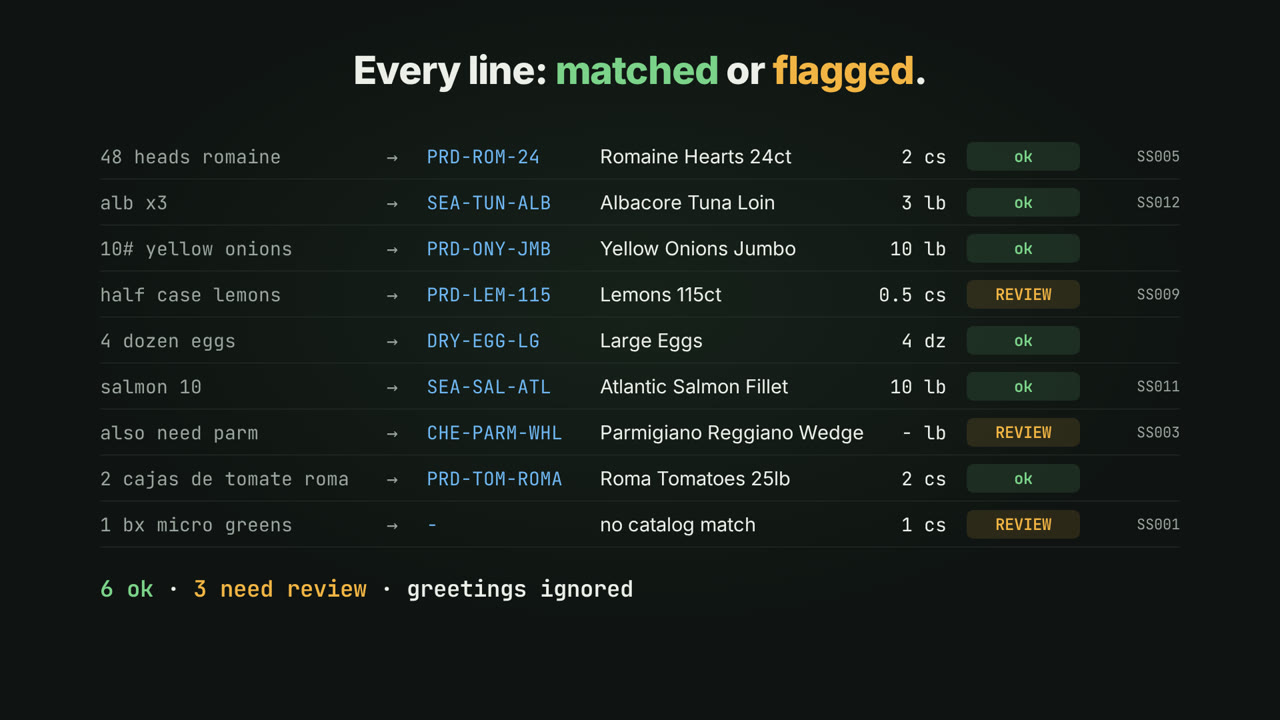
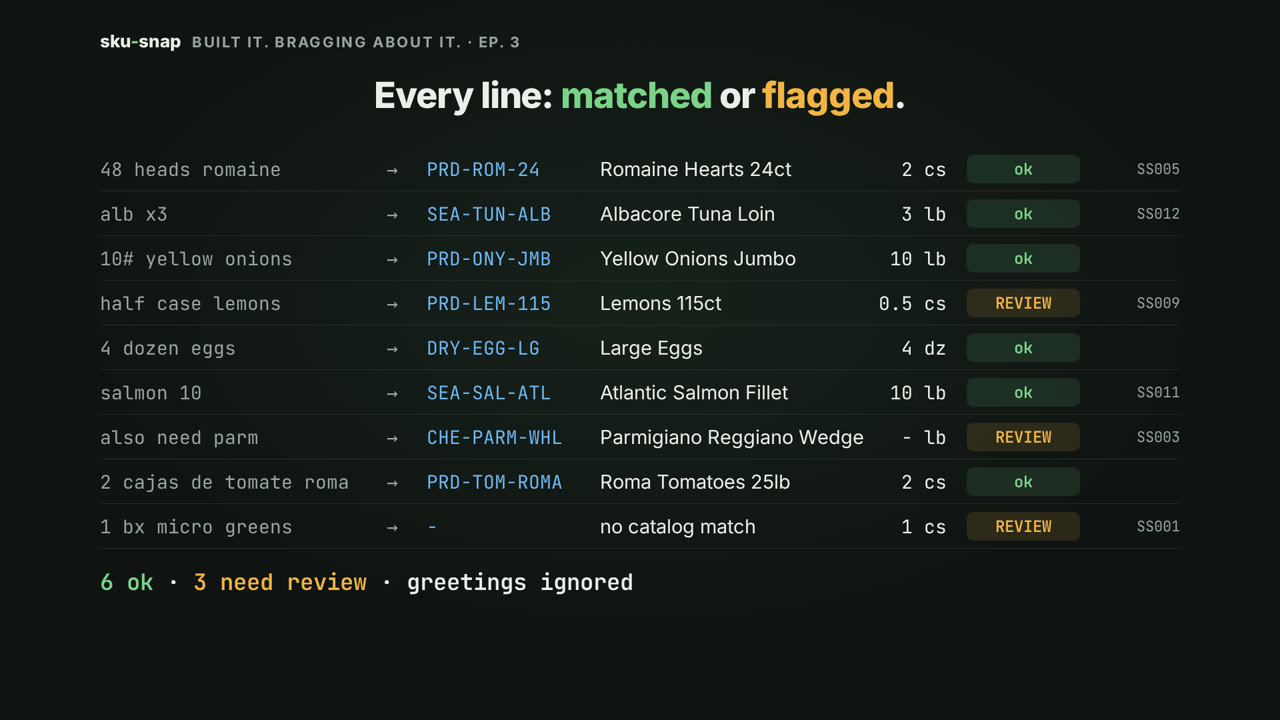
media: update cover, YouTube copy and plan for the two-clip episode

diff --git a/docs/media/sku-snap-plan.md b/docs/media/sku-snap-plan.md
@@ -1,24 +1,35 @@
-# sku-snap launch video plan
+# sku-snap: launch video plan (Built It. Bragging About It. · Ep. 3)
 
-**Angle:** the late-night texted order every distributor rep re-types, and the tool that turns it into SKU lines while flagging only what needs a human.
-**Hook (0-4.6s):** a real-looking customer text ("48 heads romaine", "alb x3 · salmon 10", "half case lemons, also need parm", "2 cajas de tomate roma") with "Someone has to re-type it into the ERP."
-**Highlights:** (1) the real `sku-snap match` output on examples/orders/luigis-text.txt, rows appearing one by one with ok/REVIEW pills and rule ids; (2) history tie-break (SS011), unit fitting (SS005), drafted question (SS009).
-**Punchline:** "Try it on your next order." + install command, 0 runtime deps / JSON + ERP CSV / Claude skill included, repo URL, roadmap labelled as roadmap.
-**Tone:** default. **Format:** 1920x1080, 30 fps, 21.0 s, with music.
-**Honesty:** all table rows, SKUs, flags and messages come from a real run of the CLI on the repo's example files. "Luigi's" is the fictional example customer from examples/. No metrics, users, logos or endorsements. OCR/review queue/ERP profiles shown only under "Roadmap".
+**Format:** one episode made of two brag clips that merge seamlessly. 1920x1080, 30 fps, 31.5 s total, with music.
+- **Clip 1: THE PROBLEM** (tone: cinematic): 0.0-13.5 s (13.5 s)
+- **Clip 2: THE SOLUTION** (tone: default): 13.5-31.5 s (18.0 s)
+
+**Angle:** clip 1 sits in the late-night texted order and every question a rep has to answer before it can ship; clip 2 reveals sku-snap next to that same message and shows the real CLI output answering those questions.
+
+**Honesty:** every row, SKU, flag and message comes from a real `sku-snap match` run on the repo's examples (examples/orders/luigis-text.txt, fictional customer "Luigi's"). Problem statements come from the PRD (gaps observed in YC F26/S26 food-distribution and wholesale companies). No metrics, users, logos or endorsements. OCR / review queue / ERP profiles appear only under "Roadmap".
 
 ## Storyboard
-| # | Time | Scene |
-|---|---|---|
-| 1 | 0.0-4.6s | Hook: "Your customer texted an order." + 4 message bubbles pop in + "Someone has to re-type it into the ERP." |
-| 2 | 4.7-8.0s | Reveal: "sku-snap" wordmark, "Messy orders in. Catalog SKUs out.", "Offline CLI · flags only what needs a human" |
-| 3 | 8.1-13.1s | "Every line: matched or flagged." 9 real output rows slide in, summary "6 ok · 3 need review · greetings ignored" (poster frame at 12.6s) |
-| 4 | 13.2-17.0s | "Remembers. Converts. Asks, never guesses." 3 cards: salmon (SS011), romaine (SS005), lemons (SS009) + "sku-snap learn" |
-| 5 | 17.1-21.0s | "Try it on your next order." typed pip install, chips, github.com/AagamS06/sku-snap, roadmap line |
-Transitions: 0.3s fade out to background, 0.1s gap, 0.35s fade in (dip, no crossfade).
 
-## Visual identity (used in the video's CSS)
-- Background: #0F1412 (with a subtle radial accent glow, rgba(123,211,137,.07))
+### Clip 1: The problem (cinematic: letterbox bars, slow push-ins, drone, impacts)
+| Time | Scene |
+|---|---|
+| 0.0-2.45 | Series ident: "BUILT IT. BRAGGING ABOUT IT." / "Ep. 3" (accent) / "sku-snap", underline draws in. Letterbox bars slide in from 2.2 s. |
+| 2.5-6.7 | "11:48 pm. An order comes in." The customer's text appears bubble by bubble (48 heads romaine / alb x3 · salmon 10 / half case lemons, also need parm / 2 cajas de tomate roma). |
+| 6.8-13.3 | The message card slides left. "Every line is a question." Four questions land one by one: which of 3 salmon SKUs? how many cases is 48 heads? they only sell whole cases; which parm, and how much? Then "Then someone re-types every line into the ERP." |
+
+### Seam (13.0-14.0)
+The questions and title clear, the letterbox bars retract, and the **same message card stays on screen** (shared element). The music lands on a downbeat at 13.5 s with a soft impact, switching from drone to plucks.
+
+### Clip 2: The solution (default: punchy reveals, plucks + kick)
+| Time | Scene |
+|---|---|
+| 13.5-16.9 | Reveal beside the message card: "sku-snap" / "Messy orders in. Catalog SKUs out." / "Offline CLI · flags only what needs a human". The card gets a green outline (it is being processed). |
+| 17.0-22.1 | Real output table: 9 rows slide in with ok/REVIEW pills and rule ids; "6 ok · 3 need review · greetings ignored". Header: sku-snap · BUILT IT. BRAGGING ABOUT IT. · EP. 3 (poster frame at 21.3 s). |
+| 22.2-26.4 | "Remembers. Converts. Asks, never guesses." Three cards: salmon → Atlantic Salmon Fillet (SS011), 48 heads → 2 cs (SS005), half case → "Round up to 1?" (SS009); "sku-snap learn". |
+| 26.5-31.5 | Series end card: "BUILT IT. BRAGGING ABOUT IT. · EP. 3", "Try it on your next order.", typed pip install, chips (0 runtime deps / JSON + ERP CSV / Claude skill included), github.com/AagamS06/sku-snap, roadmap line. |
+
+## Visual identity (from the video's CSS)
+- Background: #0F1412 (subtle radial glow rgba(123,211,137,.07)); letterbox bars #070A09
 - Card/surface: #18201C (border #26312B)
 - Text: #ECEFE9
 - Muted text: #9AA59E
@@ -27,8 +38,10 @@ Transitions: 0.3s fade out to background, 0.1s gap, 0.35s fade in (dip, no cross
 - Google Fonts CSS URL: https://fonts.googleapis.com/css2?family=Inter:wght@400;500;700;800&family=JetBrains+Mono:wght@400;600&display=swap
 
 ## Sound
-- Key and mode: **A minor** (progression Am - F - C - G, 112 bpm)
-- Soft detuned pad throughout; pluck arpeggio + soft kick from the reveal; in-key blips for message bubbles and table rows; quiet whooshes at scene changes; final A-minor chord ring. Peak -1 dBFS, RMS about -16.6 dBFS.
+- Key and mode: **A minor** (Am - F - C - G), 112 bpm, one continuous track.
+- Clip 1: ident chime, low A drone, slow pad (two bars per chord), impacts on each title, muted in-key plucks under each question, riser into the seam.
+- Clip 2: soft impact on the seam downbeat, pad one bar per chord, pluck arpeggio + soft kick and hat, row ticks, whooshes on scene changes, final A-minor chord.
+- Peak -1 dBFS; RMS about -18 dBFS.
 
 ## Deliverables
-sku-snap.mp4 (poster baked in as frame 0), sku-snap-cover.jpg (1280x720), sku-snap.txt (YouTube title/description), this plan. Poster still kept at work/poster.png; plain background at work/bg.png.
+sku-snap.mp4 (merged episode, poster as frame 0), sku-snap-clip1.mp4, sku-snap-clip2.mp4, sku-snap-cover.jpg (1280x720), sku-snap.txt, this plan. Poster still at work/poster.png, plain background at work/bg.png.
